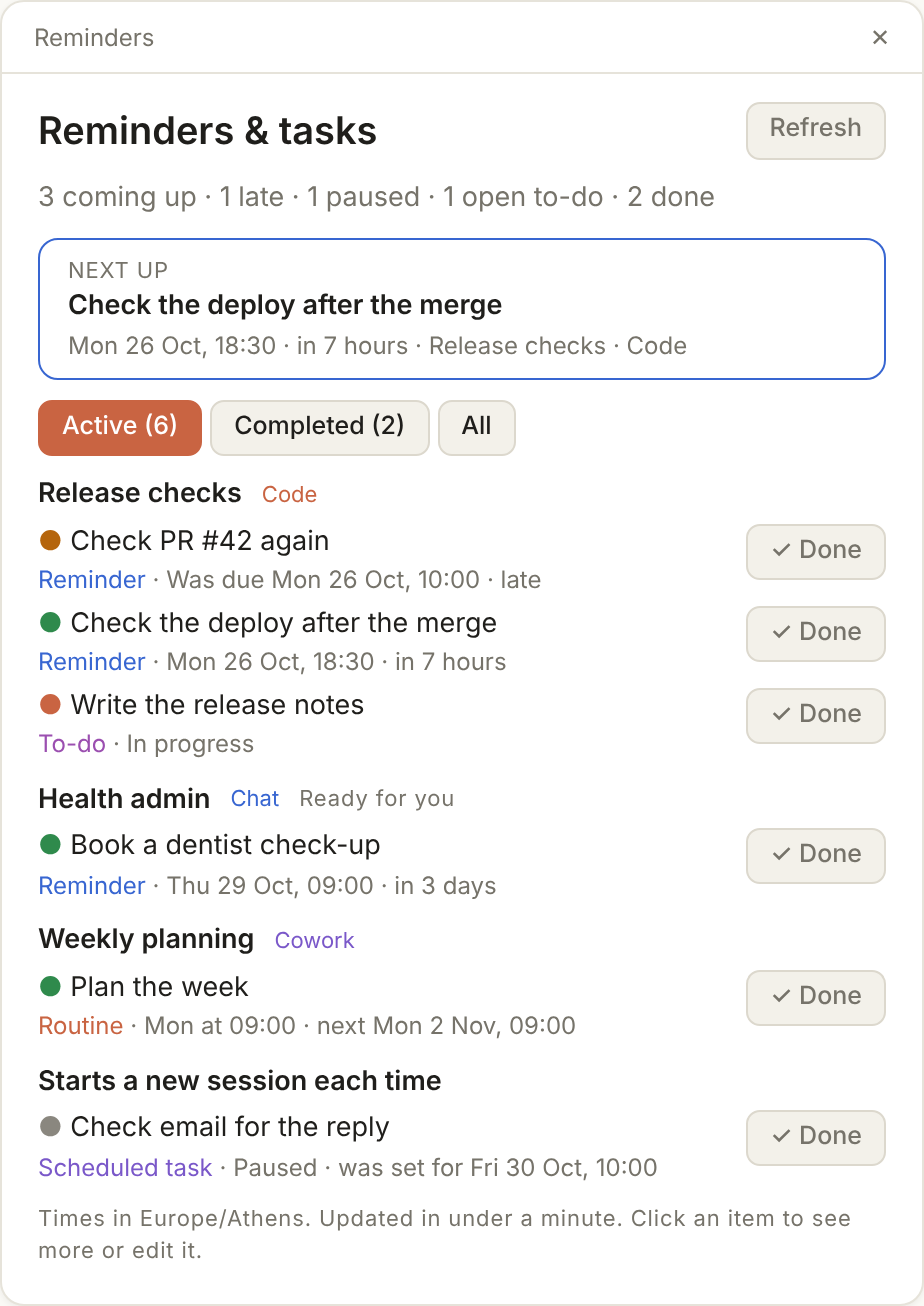
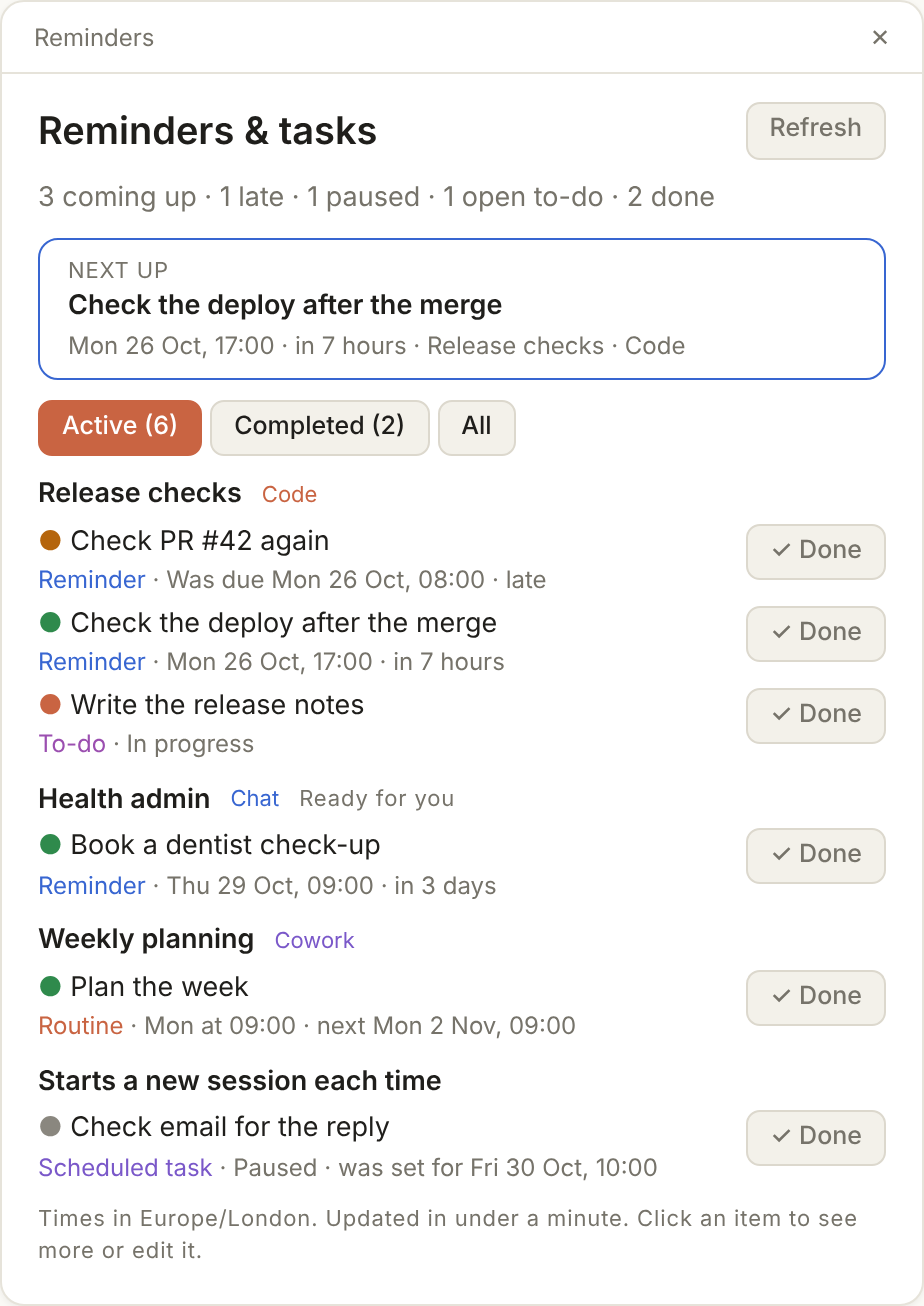
Reminders post: London time, plainer words
Claude-Session: https://claude.ai/code/session_01Gp9MqFPaVfLHgcQNToPSHU

diff --git a/posts/a-reminders-panel-for-claude-code.md b/posts/a-reminders-panel-for-claude-code.md
@@ -4,7 +4,7 @@ date: "2026-10-26T12:00:00+0000"
 categories: ["AI"]
 banner: "reminders-panel.png"
 color: "#eefaf4"
-description: "My reminders and scheduled check-ins were spread over many Claude sessions, so I had Claude build a panel that lists them all in one place, colour coded, where I can change them, tick them off and undo."
+description: "My reminders and scheduled tasks were spread over many Claude sessions, so I had Claude build a panel that lists them all in one place, colour coded, where I can change them, tick them off and undo."
 readingTimeMinutes: 3
 new: true
 ---
@@ -13,7 +13,7 @@ new: true
 
 ## Why I needed it
 
-I use reminders a lot. When a session opens a PR or starts a deploy, it sets a check-in for later. When I ask a session to remind me about something on Friday, it schedules it. In two weeks I had 28 of them, spread over several sessions, and only two were still to come.
+I use reminders a lot. When a session opens a PR or starts a deploy, it sets a reminder to check on it later. When I ask a session to remind me about something on Friday, it schedules it. In two weeks I had 28 of them, spread over several sessions, and only two were still to come.
 
 To find one, I had to remember which session set it up, open it and ask. To move one to another day, the same.
 
@@ -39,8 +39,8 @@ And a minute later: "Oh and allow me to view completed ones, mark as completed a
 ## What I learned
 
 - **Panels only show where the app draws them.** A mod is a Claude Code plugin, and it can add a panel next to the chat. The first version said "Opened the Reminders panel" and nothing appeared. I was in a cloud session in the Claude app, and that doesn't draw plugin panels at all. The panel works in Claude Code on my computer. In a cloud session, `/reminders` now gives the same list as plain text, which is what I use on my phone.
-- **Ask to see it first.** Before setting anything up, I asked Claude to show me what it would look like. It drew the panel with my real reminders, and I could say no before anything was installed.
-- **Time zones.** The cloud runs on UTC and I'm in Athens, so a reminder at 08:00 was really 10:00 for me. The panel shows and reads every time in my time zone, and that's a setting.
+- **Ask to see it first.** Before setting anything up, I asked Claude to show me what it would look like, because I might not like it. It drew the panel with my real reminders, so I could say no before anything was installed.
+- **Time zones.** The cloud runs on UTC. London matches it in winter but is an hour ahead in summer, so for half the year a reminder at 08:00 was really 09:00 for me. The panel shows and reads every time in my time zone, and that's a setting.
 
 ## Try it
 
